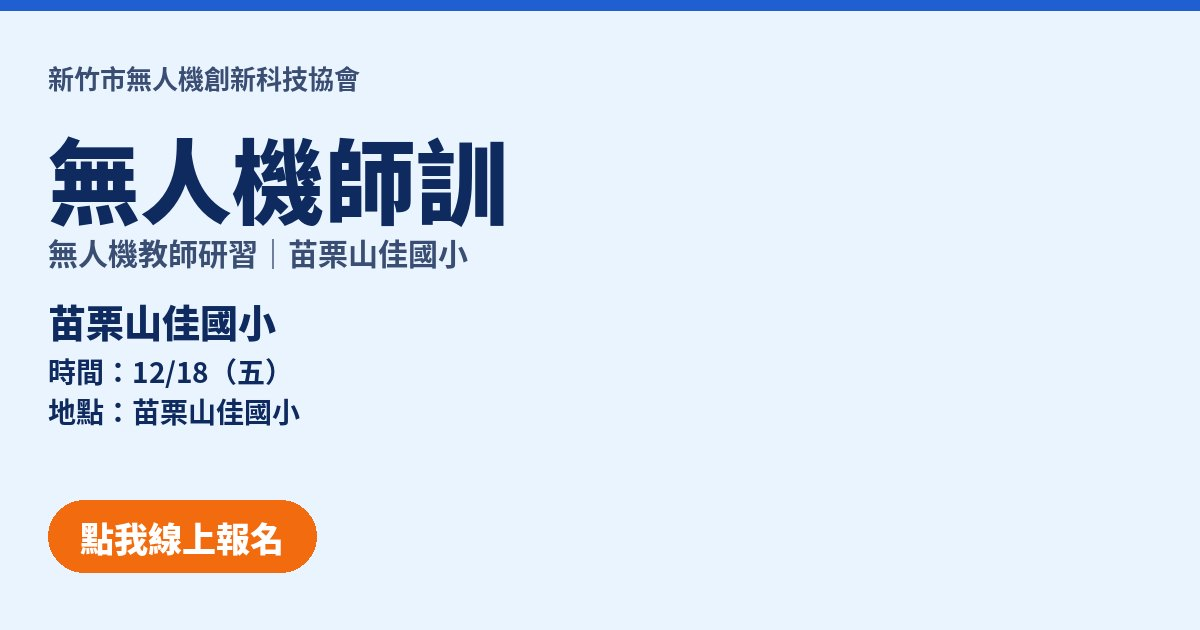
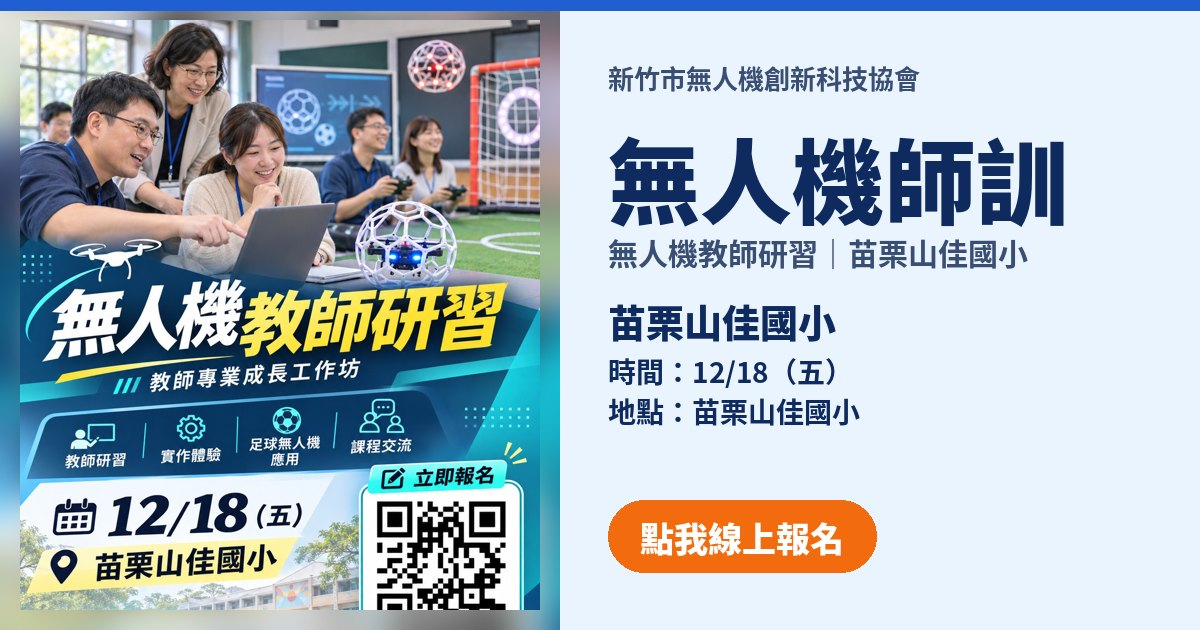
三場 DM 上線：報名頁海報 v=4、分享縮圖改用 DM
Claude-Session: https://claude.ai/code/session_01Q3ebcWS7uCf6rZu72y21kP

diff --git a/index.html b/index.html
@@ -26,7 +26,7 @@
 // 有代碼 → 一打開就先下載海報，不等其他東西
 (function(){try{var c=(new URLSearchParams(location.search).get("c")||"").trim().toLowerCase();
 if(!c){location.replace("admin.html");return;}
-if(c){var l=document.createElement("link");l.rel="preload";l.as="image";l.href="poster-"+encodeURIComponent(c)+".jpg?v=3";document.head.appendChild(l);}}catch(e){}})();
+if(c){var l=document.createElement("link");l.rel="preload";l.as="image";l.href="poster-"+encodeURIComponent(c)+".jpg?v=4";document.head.appendChild(l);}}catch(e){}})();
 </script>
 <style>
 :root{
@@ -307,7 +307,7 @@ footer a{font-family:var(--f-round);font-weight:400;font-size:24px;color:var(--r
     setTitle(c);
     document.title = (evTitle(c).replace("|", "") || "活動") + "報名｜" + c.name;
     // 海報：poster-社區代碼.jpg，有就整張顯示在最上面
-    const src = "poster-" + encodeURIComponent(c.code) + ".jpg?v=3"; // 換海報時把 v 加 1（跟上面 preload 一起改）
+    const src = "poster-" + encodeURIComponent(c.code) + ".jpg?v=4"; // 換海報時把 v 加 1（跟上面 preload 一起改）
     const img = $("#poster");
     if (img.dataset.src !== src) {
       img.dataset.src = src;
